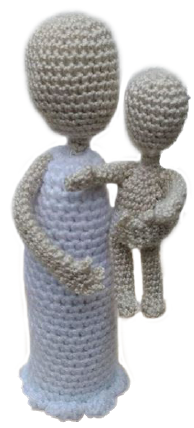
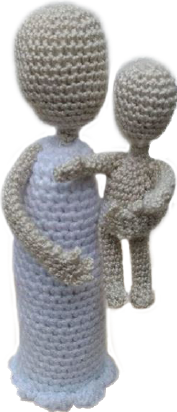
interaccion lista, mas detalles

diff --git a/index.html b/index.html
@@ -121,18 +121,33 @@
         <div class="landing__interaccion">
             
                 <div class="landing__interaccion-fondo" >
+                                  
+                    
                     <h1 class="landing__interaccion-titulo">Pinta el vestido</h1>
-                    <img class="landing__interaccion-lana" src="imagenes/lana1.png" alt="" >
-                    <img class="landing__interaccion-lana" src="imagenes/lana2.png" alt="" >
-                    <img class="landing__interaccion-lana" src="imagenes/lana3.png" alt="" >
-                    <img class="landing__interaccion-lana" src="imagenes/lana4.png" alt="" >                    
+                    <!--aquí estoy cargando las lanas y le puse dos clases, para que la segunda se use en js-->
+                    <!--la primera clase es para estilos y la segunda para identificar cada elemento en js-->
+                    <img class="landing__interaccion-lana rosada" src="imagenes/lana1.png" alt="" >
+                    <img class="landing__interaccion-lana roja" src="imagenes/lana2.png" alt="" >
+                    <img class="landing__interaccion-lana amarilla" src="imagenes/lana3.png" alt="" >
+                    <img class="landing__interaccion-lana azul" src="imagenes/lana4.png" alt="" >                    
                 </div>
 
                 <div class="landing__interaccionmujer">
+                     <!--aqui es para la imagen de la mujer que va a cambiar-->
                         <img class="landing__interaccion-mujer"src="imagenes/mujer.png" alt="" >
                 </div>
         
         </div>
+
+       
+
+    
+        <div class="interaccion__pintada">
+
+        </div>
+    </div>
+
+
 
         <div class="landing__especificaciones">
            <div class="landing__especificacionesImg">
@@ -179,6 +194,7 @@
     </section>
     <footer class="abajo">
         <img class="abajo__logo" src="imagenes/logoA.png" alt="">
+
 
 
     </footer>

diff --git a/menu.js b/menu.js
@@ -41,3 +41,55 @@ function recorrerFotos(foto, index){
 
 
   //  console.log(url + "url de la imagen");
+
+
+  //  interaccion
+  //aqui le digo a mi var imagen que es igual al elemento que tiene la clase entre parentesis
+  var imagen = document.querySelector(".landing__interaccion-mujer");
+/*aqui le asigno a las var el elemento que tiene ese nombre de clase
+get.ElementByClassName hace un arreglo vacio en donde mete todos los elementos que coinciden con la clase que se le pasa
+y como solo existe un elemento con ese nombre de clase, se toma la primera posicion*/
+var rosada = document.getElementsByClassName("rosada")[0];
+var roja = document.getElementsByClassName("roja")[0];
+var amarilla = document.getElementsByClassName("amarilla")[0];
+var azul = document.getElementsByClassName("azul")[0];
+
+//arreglo con las url de las mujeres con colores
+var imagenArray = [
+    'imagenes/mujerF.png',
+    'imagenes/mujerR.png',
+    'imagenes/mujerA.png',
+    'imagenes/mujerZ.png',
+    ]
+//el if es para evitar un posible error en caso de que el elemento no haya sido asignado a la variable
+if (rosada != null) {
+//aqui le asigno el click al elemento
+    rosada.addEventListener("click", (e) => {
+/* al darle click entonces mi variable imagen, va a cambiar la propiedad src, por una que este en el arreglo (en ste primera posición)
+la cual coincide con la imagen de la mujer rosada*/
+        imagen.src = imagenArray[0];        
+    });
+}
+
+if (roja != null) {
+
+    roja.addEventListener("click", (e) => {
+        imagen.src = imagenArray[1];
+    });
+}
+
+if (amarilla != null) {
+
+    amarilla.addEventListener("click", (e) => {
+        imagen.src = imagenArray[2];
+    });
+}
+
+if (azul != null) {
+
+    azul.addEventListener("click", (e) => {
+        imagen.src = imagenArray[3];
+    });
+}
+
+

diff --git a/styles.css b/styles.css
@@ -42,6 +42,33 @@ body{
     top: -16px; 
     left: 500px;
 }
+
+.portada__foto-thor:hover{
+    animation: shake 0.82s cubic-bezier(.36,.07,.19,.97) both;
+      transform: translate3d(0, 0, 0);
+      backface-visibility: hidden;
+      perspective: 1000px;
+    
+  }
+      
+    @keyframes shake {
+    10%, 90% {
+    transform: translate3d(-1px, 0, 0);
+    }
+        
+    20%, 80% {
+    transform: translate3d(2px, 0, 0);
+    }
+      
+    30%, 50%, 70% {
+    transform: translate3d(-4px, 0, 0);
+    }
+      
+    40%, 60% {
+    transform: translate3d(4px, 0, 0);
+    }
+      }
+
 input{
   position: relative;
   top: -35px;
@@ -182,7 +209,35 @@ color: #4D4C4C;
     background-repeat: no-repeat;
     background-position: center center;
 
- }
+
+   
+    }
+    .datos__uno-img:hover{
+      animation: shake 0.82s cubic-bezier(.36,.07,.19,.97) both;
+      transform: translate3d(0, 0, 0);
+      backface-visibility: hidden;
+      perspective: 1000px;
+    }
+      
+    @keyframes shake {
+    10%, 90% {
+    transform: translate3d(-1px, 0, 0);
+    }
+        
+    20%, 80% {
+    transform: translate3d(2px, 0, 0);
+    }
+      
+    30%, 50%, 70% {
+    transform: translate3d(-4px, 0, 0);
+    }
+      
+    40%, 60% {
+    transform: translate3d(4px, 0, 0);
+    }
+      }
+    
+ 
  .landing__aleja{
    display: flex;
    justify-content: space-around; 
@@ -376,6 +431,18 @@ text-align: center;
 
 
 }
+
+.interaccion__lanas.lana{
+    width: 50px;
+    height: 50px;
+    border-radius: 50px;
+    margin: 10px 0px 0px 10px;
+    display: inline-block;
+    cursor: pointer;
+    -webkit-transition: all .2s;
+    transition: all .2s;
+}
+
 
 
 .landing__especificaciones{
